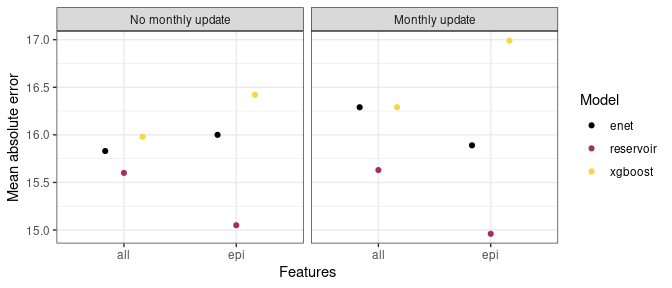
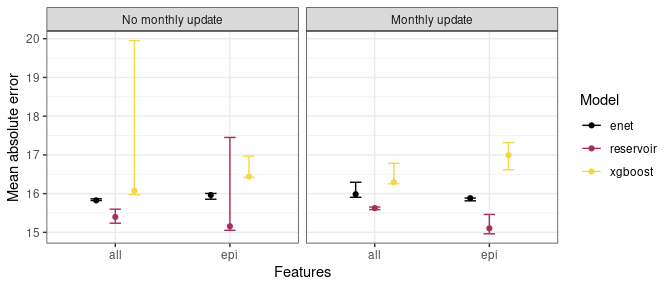
update results nice figures

diff --git a/reporting/experience1.md b/reporting/experience1.md
@@ -73,25 +73,45 @@ Expected results:
 ### Sanity check
 
 First, we check that there is 40 reservoir prediction for each day of
-the prediction for each scenario. We observe that there is indeed a
+the prediction for each scenario. At figure
+<a href="#fig-sanitycheckNbReservoirPerDay"
+class="quarto-xref">Figure 1</a>, we observe that there is indeed a
 forecast for each day. Some days have less than 40 reservoirs but the
 minimum is 39 which seems acceptable.
 
-![Number of reservoir per day for
-prediction](experience1_files/figure-commonmark/sanitycheckNbReservoirPerDay-1.png)
+<div id="fig-sanitycheckNbReservoirPerDay">
+
+![](experience1_files/figure-commonmark/fig-sanitycheckNbReservoirPerDay-1.png)
+
+
+Figure 1: Number of reservoir per day for prediction
+
+</div>
 
 ### Prediction
 
 First we show a graphical evaluation of the different algorithms. On
 panel A of figure
-<a href="#fig-PredictionByDayByModel" class="quarto-xref">Figure 1</a>
+<a href="#fig-PredictionByDayByModel" class="quarto-xref">Figure 2</a>
+we first observe that xgboost led to highly volatile predictions when
+little information is available, persisting when using all features
+without updating hyperparameters. At the contrary, both elastic-net and
+reservoir computing where quite robust regarding hyperparameter choice.
+When more information is available such as presented at panel B, all
+models where quite stable and updating the hyperparameters had little
+effect.
+
+Regarding the graphical performance at the early phase of the epidemic,
+xgboost seemed worse compared to elastic-net and reservoir computing due
+to this high volatility. However, when more information is available
 
 <div id="fig-PredictionByDayByModel">
 
 ![](experience1_files/figure-commonmark/fig-PredictionByDayByModel-1.png)
 
 
-Figure 1: Prediction by day by model
+Figure 2: Prediction by day by model. Only results of the first
+repetition are shown.
 
 </div>
 
@@ -508,7 +528,7 @@ visualisation.](experience1_files/figure-commonmark/unnamed-chunk-5-1.png)
 }
 </style>
 
-|  |  | update | MAE | MRE | MAEB | MREB | starting_date |
+|  |  | update | MAE (+/- SD) | MRE (+/- SD) | MAEB (+/- SD) | MREB (+/- SD) | starting_date |
 |----|----|----|----|----|----|----|----|
 | enet | all | No monthly update | 20.47(±13.86) | 0.2(±0.2) | -0.56(±14.04) | 1.02(±12.93) | 2020-09-02 |
 |  | all | Monthly update | 22.12(±15.73) | 0.22(±0.22) | 1.09(±14.23) | 1.09(±6.47) | 2020-09-02 |
@@ -924,20 +944,20 @@ Performance by algorithm initiated in 2020-09-02 from 2020-09-02 to
 }
 </style>
 
-|  |  | update | MAE | MRE | MAEB | MREB | starting_date |
+|  |  | starting_date | update | MAE | MRE | MAEB | MREB |
 |----|----|----|----|----|----|----|----|
-| enet | all | No monthly update | 15.83(±12.41) | 0.29(±0.34) | -2.76(±7.07) | 0.85(±1.63) | 2021-03-01 |
-|  | all | Monthly update | 16.29(±12.42) | 0.3(±0.38) | -2.29(±8.48) | 0.9(±1.57) | 2021-03-01 |
-|  | epi | No monthly update | 16(±13.42) | 0.29(±0.33) | -2.58(±5.78) | 0.91(±2.09) | 2021-03-01 |
-|  | epi | Monthly update | 15.89(±13.33) | 0.29(±0.32) | -2.7(±6.37) | 0.91(±2.33) | 2021-03-01 |
-| reservoir | all | No monthly update | 15.6(±12.66) | 0.27(±0.33) | -2.99(±5.54) | 0.87(±1.25) | 2021-03-01 |
-|  | all | Monthly update | 15.63(±12.58) | 0.27(±0.35) | -2.96(±5.55) | 0.85(±1.59) | 2021-03-01 |
-|  | epi | No monthly update | 15.05(±12.77) | 0.25(±0.31) | -3.53(±6.59) | 0.86(±2.2) | 2021-03-01 |
-|  | epi | Monthly update | 14.96(±12.81) | 0.25(±0.31) | -3.62(±7.9) | 0.8(±2.76) | 2021-03-01 |
-| xgboost | all | No monthly update | 15.98(±14.96) | 0.24(±0.36) | -2.61(±9.02) | 0.84(±2.66) | 2021-03-01 |
-|  | all | Monthly update | 16.29(±14.66) | 0.27(±0.38) | -2.29(±9.77) | 0.93(±NaN) | 2021-03-01 |
-|  | epi | No monthly update | 16.42(±13.35) | 0.31(±0.37) | -2.17(±7.76) | 0.88(±3.09) | 2021-03-01 |
-|  | epi | Monthly update | 16.99(±13.29) | 0.31(±0.38) | -1.59(±10.08) | 0.84(±3.4) | 2021-03-01 |
+| enet | all | 2021-03-01 | No monthly update | 15.83 (15.82 ; 15.87) | 0.29 (0.28 ; 0.29) | -2.76 (-2.77 ; -2.72) | 0.85 (0.85 ; 0.86) |
+|  | all | 2021-03-01 | Monthly update | 15.98 (15.9 ; 16.29) | 0.28 (0.28 ; 0.3) | -2.6 (-2.68 ; -2.29) | 0.89 (0.88 ; 0.9) |
+|  | epi | 2021-03-01 | No monthly update | 15.96 (15.86 ; 16) | 0.29 (0.29 ; 0.3) | -2.62 (-2.73 ; -2.58) | 0.91 (0.9 ; 0.91) |
+|  | epi | 2021-03-01 | Monthly update | 15.88 (15.81 ; 15.89) | 0.29 (0.28 ; 0.29) | -2.7 (-2.77 ; -2.7) | 0.91 (0.9 ; 0.91) |
+| reservoir | all | 2021-03-01 | No monthly update | 15.4 (15.24 ; 15.6) | 0.27 (0.24 ; 0.28) | -3.19 (-3.35 ; -2.99) | 0.86 (0.85 ; 0.87) |
+|  | all | 2021-03-01 | Monthly update | 15.63 (15.59 ; 15.65) | 0.27 (0.25 ; 0.28) | -2.96 (-3 ; -2.93) | 0.86 (0.85 ; 0.88) |
+|  | epi | 2021-03-01 | No monthly update | 15.16 (15.05 ; 17.45) | 0.25 (0.25 ; 0.32) | -3.43 (-3.53 ; -1.14) | 0.86 (0.83 ; 0.97) |
+|  | epi | 2021-03-01 | Monthly update | 15.1 (14.96 ; 15.46) | 0.25 (0.25 ; 0.28) | -3.48 (-3.62 ; -3.12) | 0.83 (0.8 ; 0.87) |
+| xgboost | all | 2021-03-01 | No monthly update | 16.08 (15.98 ; 19.95) | 0.27 (0.24 ; 0.37) | -2.51 (-2.61 ; 1.36) | 0.88 (0.84 ; 1.12) |
+|  | all | 2021-03-01 | Monthly update | 16.29 (16.26 ; 16.78) | 0.29 (0.27 ; 0.32) | -2.29 (-2.33 ; -1.8) | 0.92 (0.89 ; 0.93) |
+|  | epi | 2021-03-01 | No monthly update | 16.44 (16.42 ; 16.97) | 0.28 (0.28 ; 0.31) | -2.15 (-2.17 ; -1.62) | 0.93 (0.88 ; 0.95) |
+|  | epi | 2021-03-01 | Monthly update | 16.99 (16.61 ; 17.32) | 0.32 (0.31 ; 0.33) | -1.59 (-1.97 ; -1.27) | 0.89 (0.84 ; 0.97) |
 
 Performance by algorithm initiated in 2021-03-01 from 2021-03-15 to
 2022-01-17.
